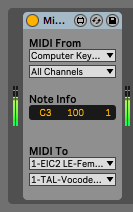
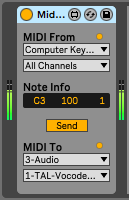
updated MIDI Router M4L device to version 1.1.0

diff --git a/m4l/ja/index.html b/m4l/ja/index.html
@@ -10,24 +10,24 @@
   <body>
     <div class="lang"><a href="../">English</a> / 日本語</div>
     <h1>Max for Live デバイス</h1>
+    <nav>
+      <ul>
+        <li><a href="#altdrum">ALT-Synthdrum</a>: インストゥルメントデバイス</li>
+        <li><a href="#eono">echo on noteoff</a>: MIDIエフェクトデバイス</li>
+        <li><a href="#bounce">bouncing notes</a>: MIDIエフェクトデバイス</li>
+        <li><a href="#pitchwc">PitchW curve</a>: MIDIエフェクトデバイス</li>
+        <li><a href="#afmacro">Audio Frame Macro</a>: オーディオエフェクトデバイス（LFO系）</li>
+        <li><a href="#mfmacro">MIDI Frame Macro</a>: MIDIエフェクトデバイス（LFO系）</li>
+        <li><a href="#retronome">Retro-nome</a>: オーディオエフェクトデバイス（視覚効果のみ）</li>
+        <li><a href="#audioAdsr">Audio ADSR</a>: オーディオエフェクトデバイス</li>
+        <li><a href="#midirouter">MIDI Router</a>: オーディオエフェクトデバイス（ユーティリティ系）</li>
+      </ul>
+    </nav>
     <header>
-      <nav>
-        <ul>
-          <li><a href="#altdrum">ALT-Synthdrum</a>: インストゥルメントデバイス</li>
-          <li><a href="#eono">echo on noteoff</a>: MIDIエフェクトデバイス</li>
-          <li><a href="#bounce">bouncing notes</a>: MIDIエフェクトデバイス</li>
-          <li><a href="#pitchwc">PitchW curve</a>: MIDIエフェクトデバイス</li>
-          <li><a href="#afmacro">Audio Frame Macro</a>: オーディオエフェクトデバイス（LFO系）</li>
-          <li><a href="#mfmacro">MIDI Frame Macro</a>: MIDIエフェクトデバイス（LFO系）</li>
-          <li><a href="#retronome">Retro-nome</a>: オーディオエフェクトデバイス（視覚効果のみ）</li>
-          <li><a href="#audioAdsr">Audio ADSR</a>: オーディオエフェクトデバイス</li>
-          <li><a href="#midirouter">MIDI Router</a>: オーディオエフェクトデバイス（ユーティリティ系）</li>
-        </ul>
-      </nav>
       <p>自作のAbleton Live用プラグインです。Max やAbleton Live をお持ちでない場合でも、<a href="https://www.ableton.com/ja/trial/">こちら</a>からLive Suite のデモ版をダウンロードできます。<br/>
-        なんと90日間無料でMax for Live を含む全ての機能が使えます!! (2020年4月時点)<br/>
-        Ableton Live Suite 9.7.7 / 10.1.25 / 11.1.1、MAX 6.1.7 / 7.3.5 / 8.3.0、Windows 10 (21H2) でのみ正常動作を確認しています。<br/>
-        macOSでの動作は確認していないため、動作状況や問題点について<a href="https://maxforlive.com/profile/user/h1data">コメント</a>か<a href="https://twitter.com/h1data">何か</a>でお知らせ頂けると助かります。</p>
+      なんと90日間無料でMax for Live を含む全ての機能が使えます!! (2020年4月時点)<br/>
+      Ableton Live Suite 9.7.7 / 10.1.25 / 11.1.1、MAX 6.1.7 / 7.3.5 / 8.3.0、Windows 10 (21H2) でのみ正常動作を確認しています。<br/>
+      macOSでの動作は確認していないため、動作状況や問題点について<a href="https://maxforlive.com/profile/user/h1data">コメント</a>か<a href="https://twitter.com/h1data">何か</a>でお知らせ頂けると助かります。</p>
     </header>  
     <section>
       <h3>M4L開発者向け情報</h3>
@@ -578,7 +578,7 @@
       <header>
         <p><img src="../MidiRouter.png"><br/>
           <a href="https://maxforlive.com/library/device/7509">ダウンロード</a> (maxforlive.com)
-          最終更新: 2021/8/7, version 1.0.0</p>
+          最終更新: 2022/5/19, version 1.1.0</p>
         <p>オーディオトラック上でオーディオエフェクトデバイスやプラグインのMIDIルーティングを行えるデバイスです。<br/>
           Live 11.0.5 / Max 8.1.11 以降でのみ使用可能です。</p>
       </header>
@@ -588,6 +588,9 @@
           <li>MIDI Input Type: MIDI入力元をMIDIトラックか外部MIDI入力から選択します。MIDIトラックの「MIDI From」と大体同じです。</li>
           <li>MIDI Input Channel: MIDI Input Typeで選択した入力からチャンネルを選択します。<br/>
             選択可能なチャンネルを持つMIDI入力が選択されていた場合のみ有効です。</li>
+          <li>Send: デバイスが選択した入力から出力へMIDIメッセージを送信するかどうかを切り替えます。<br/>
+            M4Lはデバイスがオフになった場合、ルーティングされた入力から出力へMIDIメッセージやオーディオシグナルをそのまま送信します。
+            そのため出力への送信を止めたい場合はSendボタンをオフにします。</li>
           <li>MIDI Output Type: MIDI出力先をMIDIトラックか外部MIDI出力から選択します。MIDIトラックの「MIDI To」と大体同じです。</li>
           <li>MIDI Output Channel: MIDI Output Typeで選択した出力からチャンネルかデバイスを選択します。<br/>
             選択可能なチャンネルかデバイスを持つMIDI出力先が選択されていた場合のみ有効です。</li>
@@ -598,6 +601,17 @@
         <ul>
           <li>MIDI入力のタイプやチャンネルを続けて変更し元に戻した際、プルダウンリストが余計に元に戻ってしまう場合があります。</li>
         </ul>
+      </details>
+      <details>
+        <summary>更新履歴</summary>
+        <div class="history">
+          Version 1.1.0 の変更点 (2022/5/19)
+          <ul>
+            <li>選択した出力先へMIDIメッセージを送信するかどうかを切り替えられるSendボタンを追加しました。</li>
+            <li>MIDIメッセージが送受信されたことを示すLEDを追加しました。</li>
+          </ul>
+        </div>
+        <div class="history">Version 1.0.0 : 初版 (2021/8/7)</div>
       </details>
     </section>
     <p><a href="../../">戻る</a></p>

diff --git a/m4l/index.html b/m4l/index.html
@@ -10,26 +10,26 @@
   <body>
     <div class="lang" aria>English / <a href="./ja/">日本語</a></div>
     <h1>Max for Live Devices</h1>
+    <nav>
+      <ul>
+        <li><a href="#altdrum">ALT-Synthdrum</a>: instrument</li>
+        <li><a href="#eono">echo on noteoff</a>: midi effect</li>
+        <li><a href="#bounce">bouncing notes</a>: midi effect</li>
+        <li><a href="#pitchwc">PitchW curve</a>: midi effect</li>
+        <li><a href="#afmacro">Audio Frame Macro</a>: audio effect (LFO-like parameter modulator)</li>
+        <li><a href="#mfmacro">MIDI Frame Macro</a>: midi effect (LFO-like parameter modulator)</li>
+        <li><a href="#retronome">Retro-nome</a>: audio effect (visualization)</li>
+        <li><a href="#audioAdsr">Audio ADSR</a>: audio effect</li>
+        <li><a href="#midirouter">MIDI Router</a>: audio effect (utility device)</li>
+      </ul>
+    </nav>
     <header>
-      <nav>
-        <ul>
-          <li><a href="#altdrum">ALT-Synthdrum</a>: instrument</li>
-          <li><a href="#eono">echo on noteoff</a>: midi effect</li>
-          <li><a href="#bounce">bouncing notes</a>: midi effect</li>
-          <li><a href="#pitchwc">PitchW curve</a>: midi effect</li>
-          <li><a href="#afmacro">Audio Frame Macro</a>: audio effect (LFO-like parameter modulator)</li>
-          <li><a href="#mfmacro">MIDI Frame Macro</a>: midi effect (LFO-like parameter modulator)</li>
-          <li><a href="#retronome">Retro-nome</a>: audio effect (visualization)</li>
-          <li><a href="#audioAdsr">Audio ADSR</a>: audio effect</li>
-          <li><a href="#midirouter">MIDI Router</a>: audio effect (utility device)</li>
-        </ul>
-      </nav>
       <p>Self-made plugin devices for DAW software Ableton Live Suite.<br/>
-        Even if you don't own MAX or Ableton Live, you can download the demo version of Live Suite <a href="https://www.ableton.com/trial/">here</a>.<br/>
-        It's free for 90 days with all functions including Max for Live!! (as of April 2020)<br/>
-        Checked operational properly only for Ableton Live Suite 9.7.7 / 10.1.14 / 11.1.1, MAX 6.1.7 / 7.3.5 / 8.3.0 on Windows 10 (21H2).<br/>
-        Please <a href="https://maxforlive.com/profile/user/h1data">post a comment</a> or <a href="https://twitter.com/h1data">notify the author</a>
-        if the device works or doesn't on macOS, or has any inconveniences.</p>
+      Even if you don't own MAX or Ableton Live, you can download the demo version of Live Suite <a href="https://www.ableton.com/trial/">here</a>.<br/>
+      It's free for 90 days with all functions including Max for Live!! (as of April 2020)<br/>
+      Checked operational properly only for Ableton Live Suite 9.7.7 / 10.1.14 / 11.1.1, MAX 6.1.7 / 7.3.5 / 8.3.0 on Windows 10 (21H2).<br/>
+      Please <a href="https://maxforlive.com/profile/user/h1data">post a comment</a> or <a href="https://twitter.com/h1data">notify the author</a>
+      if the device works or doesn't on macOS, or has any inconveniences.</p>
     </header>
     <section>
       <h3>For M4L developers</h3>
@@ -591,7 +591,7 @@
       <header>
         <p><img src="MidiRouter.png" alt="The image of MIDI Router device"><br/>
           Download at <a href="https://maxforlive.com/library/device/7509">maxforlive.com</a>
-          (the last update: August 7, 2021 / version 1.0.0)</p>
+          (the last update: May 19, 2022 / version 1.1.0)</p>
         <p>Routing MIDI I/O in audio tracks for audio effect devices or plugins which have MIDI input.<br/>
           Available for use only in Live 11.0.5/Max 8.1.11 or above versions.</p>
       </header>
@@ -601,6 +601,8 @@
           <li>MIDI Input Type: Selects MIDI input type from MIDI tracks or external MIDI devices. Just like 'MIDI From' of MIDI tracks.</li>
           <li>MIDI Input Channel: Selects MIDI Input Channel from selected input type above.<br/>
             Available only when MIDI Input Type has selectable channels.</li>
+          <li>Send: Switches if the device route MIDI messages via I/O. M4L devices send MIDI messages even if inactive (imagine normal effect devices in MIDI/audio chain),
+            thus let the Send button off if you want to stop sending messages.</li>
           <li>MIDI Output Type: Selects MIDI Output type from MIDI tracks or external MIDI devices. Just like 'MIDI To' of MIDI tracks.</li>
           <li>MIDI Output Channel: Selects MIDI Output Channel or device from selected output type above.<br/>
             Available only when MIDI Output Type has selectable channels or devices.</li>
@@ -611,6 +613,17 @@
         <ul>
           <li>Undoing a series of changes for MIDI input type or channel may cause extra revert for pulldown lists.</li>
         </ul>
+      </details>
+      <details>
+        <summary>Release notes</summary>
+        <div class="history">
+          Changes in version 1.1.0 (May 19, 2022)
+          <ul>
+            <li>Added "Send" button to switch if the device sends MIDI messages to the selected output.</li>
+            <li>Added LED indicators to monitor incoming/outgoing MIDI messages.</li>
+          </ul>
+        </div>
+        <div class="history">Version 1.0.0 : the first release (August 7, 2021)</div>
       </details>
     </section>
     <p><a href="../">back</a></p>
